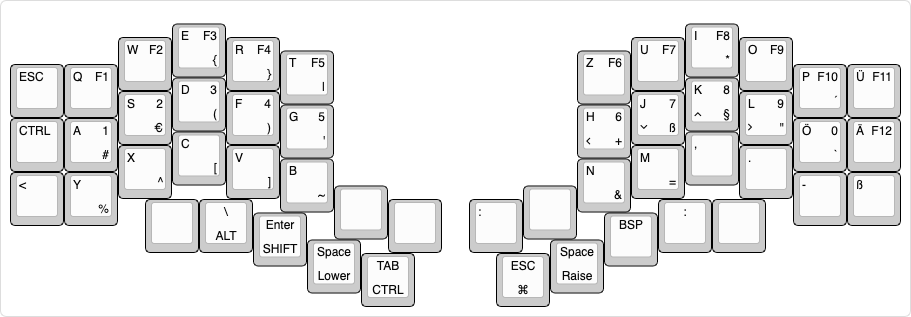
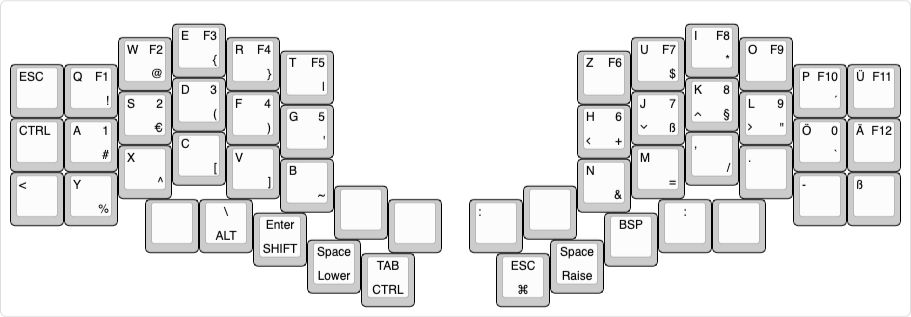
update

diff --git a/keyboards/kyria/keymaps/mtvb/keymap.c b/keyboards/kyria/keymaps/mtvb/keymap.c
@@ -34,7 +34,7 @@ const uint16_t PROGMEM keymaps[][MATRIX_ROWS][MATRIX_COLS] = {
  * |--------+------+------+------+------+------+-------------.  ,-------------+------+------+------+------+------+--------|
  * |   <    |   Z  |   X  |   C  |   V  |   B  |      |  :   |  |      |      |   N  |   M  |   ,  |   .  |   -  |   ß    |
  * `----------------------+------+------+------+------+------|  |------+------+------+------+------+----------------------'
- *                        |      |   \  | Enter| Space| CTRL |  |  CMD | Space| Bksp |   :  | AltGr|
+ *                        |      |      | Enter| Space| CTRL |  |  CMD | Space| Bksp |   :  | AltGr|
  *                        |      |  ALT | Shift| Lower| Tab  |  |      | Raise|      |      |      |
  *                        `---------------------------------'  `----------------------------------'
  */
@@ -42,7 +42,7 @@ const uint16_t PROGMEM keymaps[][MATRIX_ROWS][MATRIX_COLS] = {
       KC_ESC,                  KC_Q,   KC_W,   KC_E,   KC_R,   KC_T,                                         KC_Y,    KC_U,    KC_I,    KC_O,    KC_P,    KC_LBRC,
       CTL_T(KC_NO),            KC_A,   KC_S,   KC_D,   KC_F,   KC_G,                                         KC_H,    KC_J,    KC_K,    KC_L,    KC_SCLN, KC_QUOT,
       KC_GRAVE,                KC_Z,   KC_X,   KC_C,   KC_V,   KC_B,   _______, DE_OSX_COLN, DE_OSX_COLN, _______,   KC_N,    KC_M,    KC_COMM, KC_DOT,  KC_SLSH, KC_MINS,
-              KC_MUTE, LALT(DE_OSX_SLSH), KC_SFTENT, LT(_LOWER, KC_SPC), CTL_T(KC_TAB),MT(MOD_LGUI,KC_ESC) , LT(_RAISE, KC_SPC), KC_BSPC, DE_OSX_COLN, KC_MUTE
+             KC_MUTE, KC_LALT, KC_SFTENT, LT(_LOWER, KC_SPC), CTL_T(KC_TAB),MT(MOD_LGUI,KC_ESC) , LT(_RAISE, KC_SPC), KC_BSPC, DE_OSX_COLN, KC_MUTE
     ),
 /*
  * Lower Layer: Symbols
@@ -52,7 +52,7 @@ const uint16_t PROGMEM keymaps[][MATRIX_ROWS][MATRIX_COLS] = {
  * |--------+------+------+------+------+------|                              |------+------+------+------+------+--------|
  * |        |  #   |  €   |  (   |  )   |  `   |                              |   +  |  ß   |  §   |  "   |  `   |        |
  * |--------+------+------+------+------+------+-------------.  ,-------------+------+------+------+------+------+--------|
- * |        |  %   |  ^   |  [   |  ]   |  ~   |      |      |  |      |      |   &  |  =   |      |      |   -  |        |
+ * |        |  %   |  ^   |  [   |  ]   |  ~   |      |      |  |      |      |   &  |  =   |  /   |      |   -  |        |
  * `----------------------+------+------+------+------+------|  |------+------+------+------+------+----------------------'
  *                        |      |      |      |      |      |  |      |      |      |      |      |
  *                        |      |      |      |      |      |  |      |      |      |      |      |
@@ -61,7 +61,7 @@ const uint16_t PROGMEM keymaps[][MATRIX_ROWS][MATRIX_COLS] = {
     [_LOWER] = LAYOUT(
       _______, DE_OSX_EXLM, DE_OSX_AT,   DE_OSX_LCBR, DE_OSX_RCBR, DE_OSX_PIPE,                                     _______, DE_OSX_DLR, DE_OSX_ASTR, _______, DE_OSX_ACUT, _______,
       _______, DE_OSX_HASH, DE_OSX_EURO, DE_OSX_LPRN, DE_OSX_RPRN, DE_OSX_GRV,                                      DE_OSX_PLUS, KC_MINS, DE_OSX_PARA, DE_OSX_DQOT, DE_OSX_GRV, _______,
-      _______, DE_OSX_PERC, DE_OSX_CIRC, DE_OSX_LBRC, DE_OSX_RBRC, DE_OSX_TILD, _______, _______, _______, _______, DE_OSX_AMPR, DE_OSX_EQL,  _______, _______,  KC_SLSH, _______,
+      _______, DE_OSX_PERC, DE_OSX_CIRC, DE_OSX_LBRC, DE_OSX_RBRC, DE_OSX_TILD, _______, _______, _______, _______, DE_OSX_AMPR, DE_OSX_EQL,  DE_OSX_SLSH, _______,  KC_SLSH, _______,
                                                      _______, _______, _______, _______, _______, _______, _______, _______, _______, _______
     ),
 /*

diff --git a/keyboards/kyria/keymaps/mtvb/readme.md b/keyboards/kyria/keymaps/mtvb/readme.md
@@ -7,3 +7,5 @@
 make kyria:mtvb:flash
 ```
 
+# TODO
+
